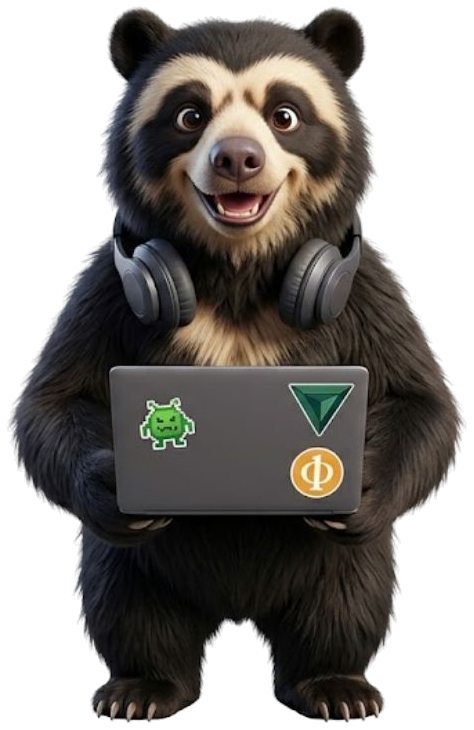
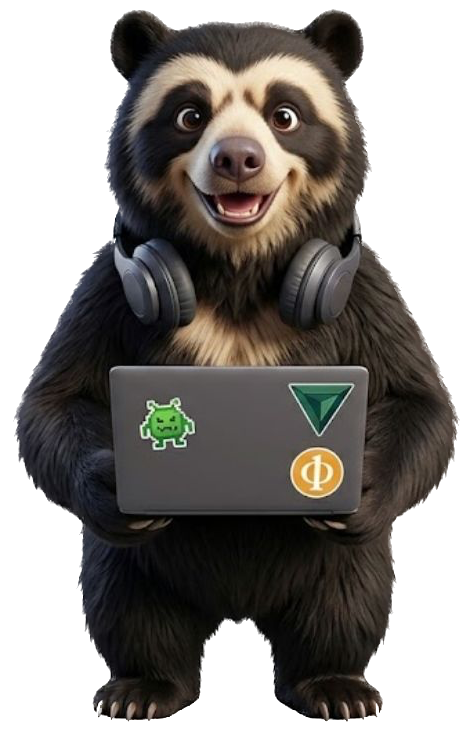
Eliminate deep white background pockets between CyberBear fur tufts and bust asset cache

diff --git a/components/defacc-page.tsx b/components/defacc-page.tsx
@@ -240,7 +240,7 @@ export default function DefAccPage({ idioma = "es" }: { idioma?: Idioma }) {
             <div className="relative flex justify-center lg:col-span-5 xl:col-span-4">
               <div className="relative w-full max-w-[260px] md:max-w-[300px]">
                 <img
-                  src="/aisc/hackathon/cyberbear.png"
+                  src="/aisc/hackathon/cyberbear-clean.png"
                   alt="CyberBear"
                   width={474}
                   height={730}
@@ -450,7 +450,7 @@ export default function DefAccPage({ idioma = "es" }: { idioma?: Idioma }) {
                 {/* 6. Mascota */}
                 <div className="flex flex-col sm:flex-row items-center gap-6 rounded-2xl bg-aisc-forest-deep p-6 text-aisc-sand md:p-8">
                   <img
-                    src="/aisc/hackathon/cyberbear.png"
+                    src="/aisc/hackathon/cyberbear-clean.png"
                     alt="Oso de anteojos"
                     width={180}
                     height={277}
